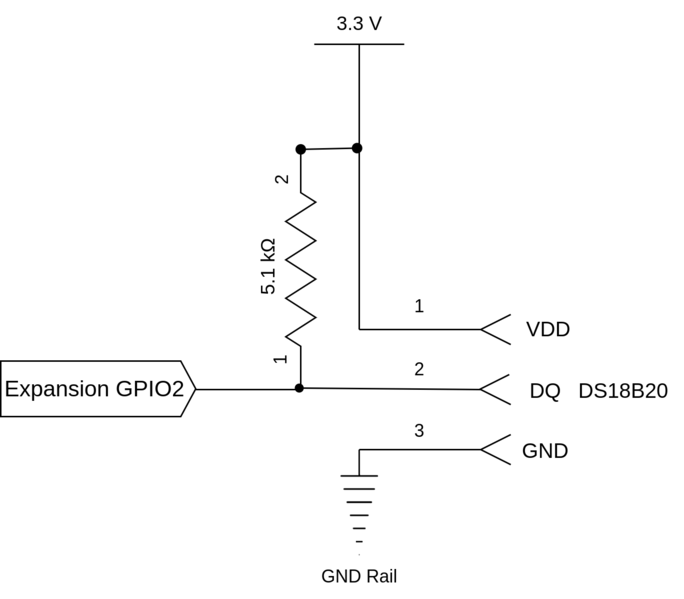
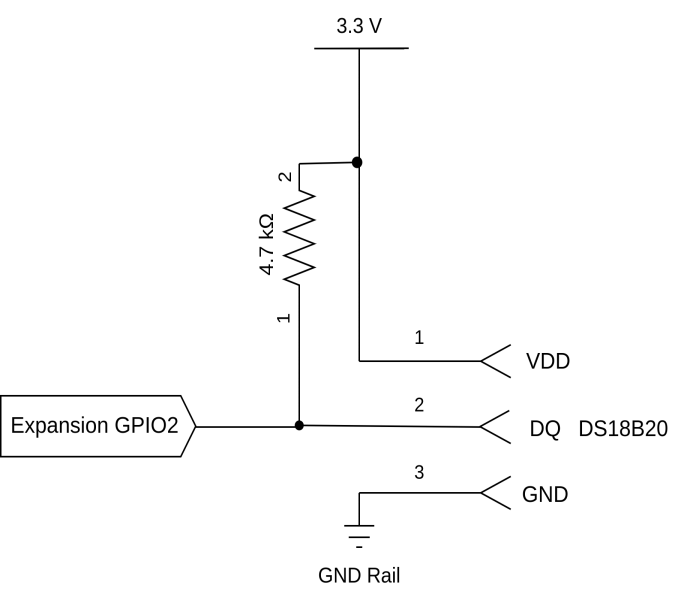
updated resistor value in diagram and removed tip admonition

diff --git a/docs/device-tree-overlay/one-wire-devices.md b/docs/device-tree-overlay/one-wire-devices.md
@@ -45,12 +45,6 @@ Please refer to your specific One-Wire device's datasheet to identify the pins a
 
 :::
 
-:::tip
-
-Building these connections is relatively easy if you have an Expansion, Power, or Arduino Dock since they all expose the Omega’s GPIOs. 
-
-:::
-
 :::warning
 
 Some One-Wire devices will require a pull-up resistor on the Data line (DQ). For example, the popular DS18B20 temperature sensor requires a 4.7 kΩ pull-up resistor on the DQ to operate properly.
